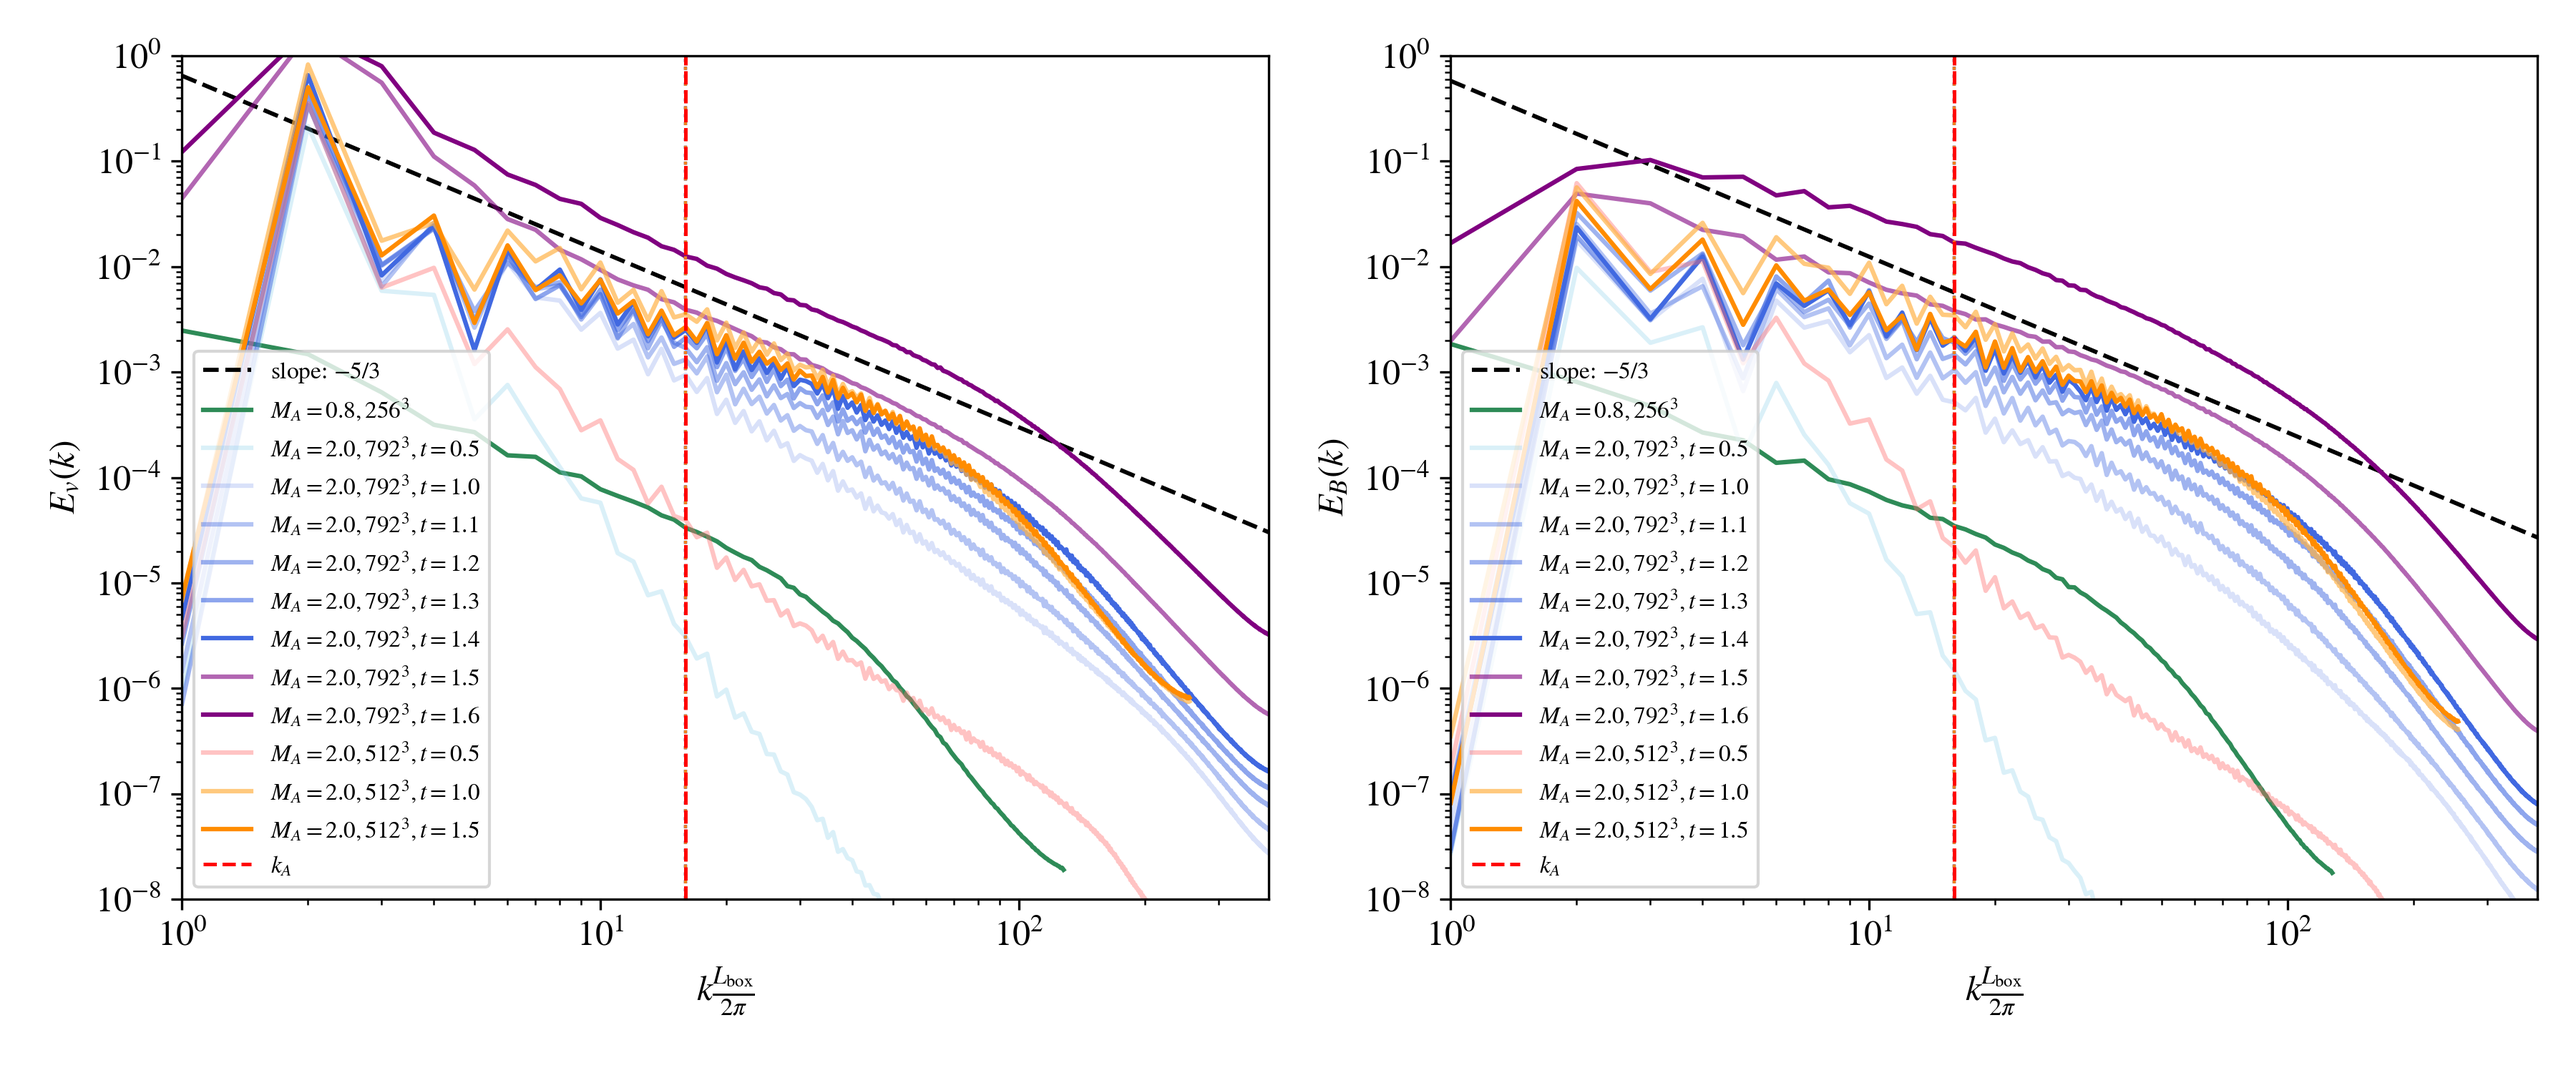
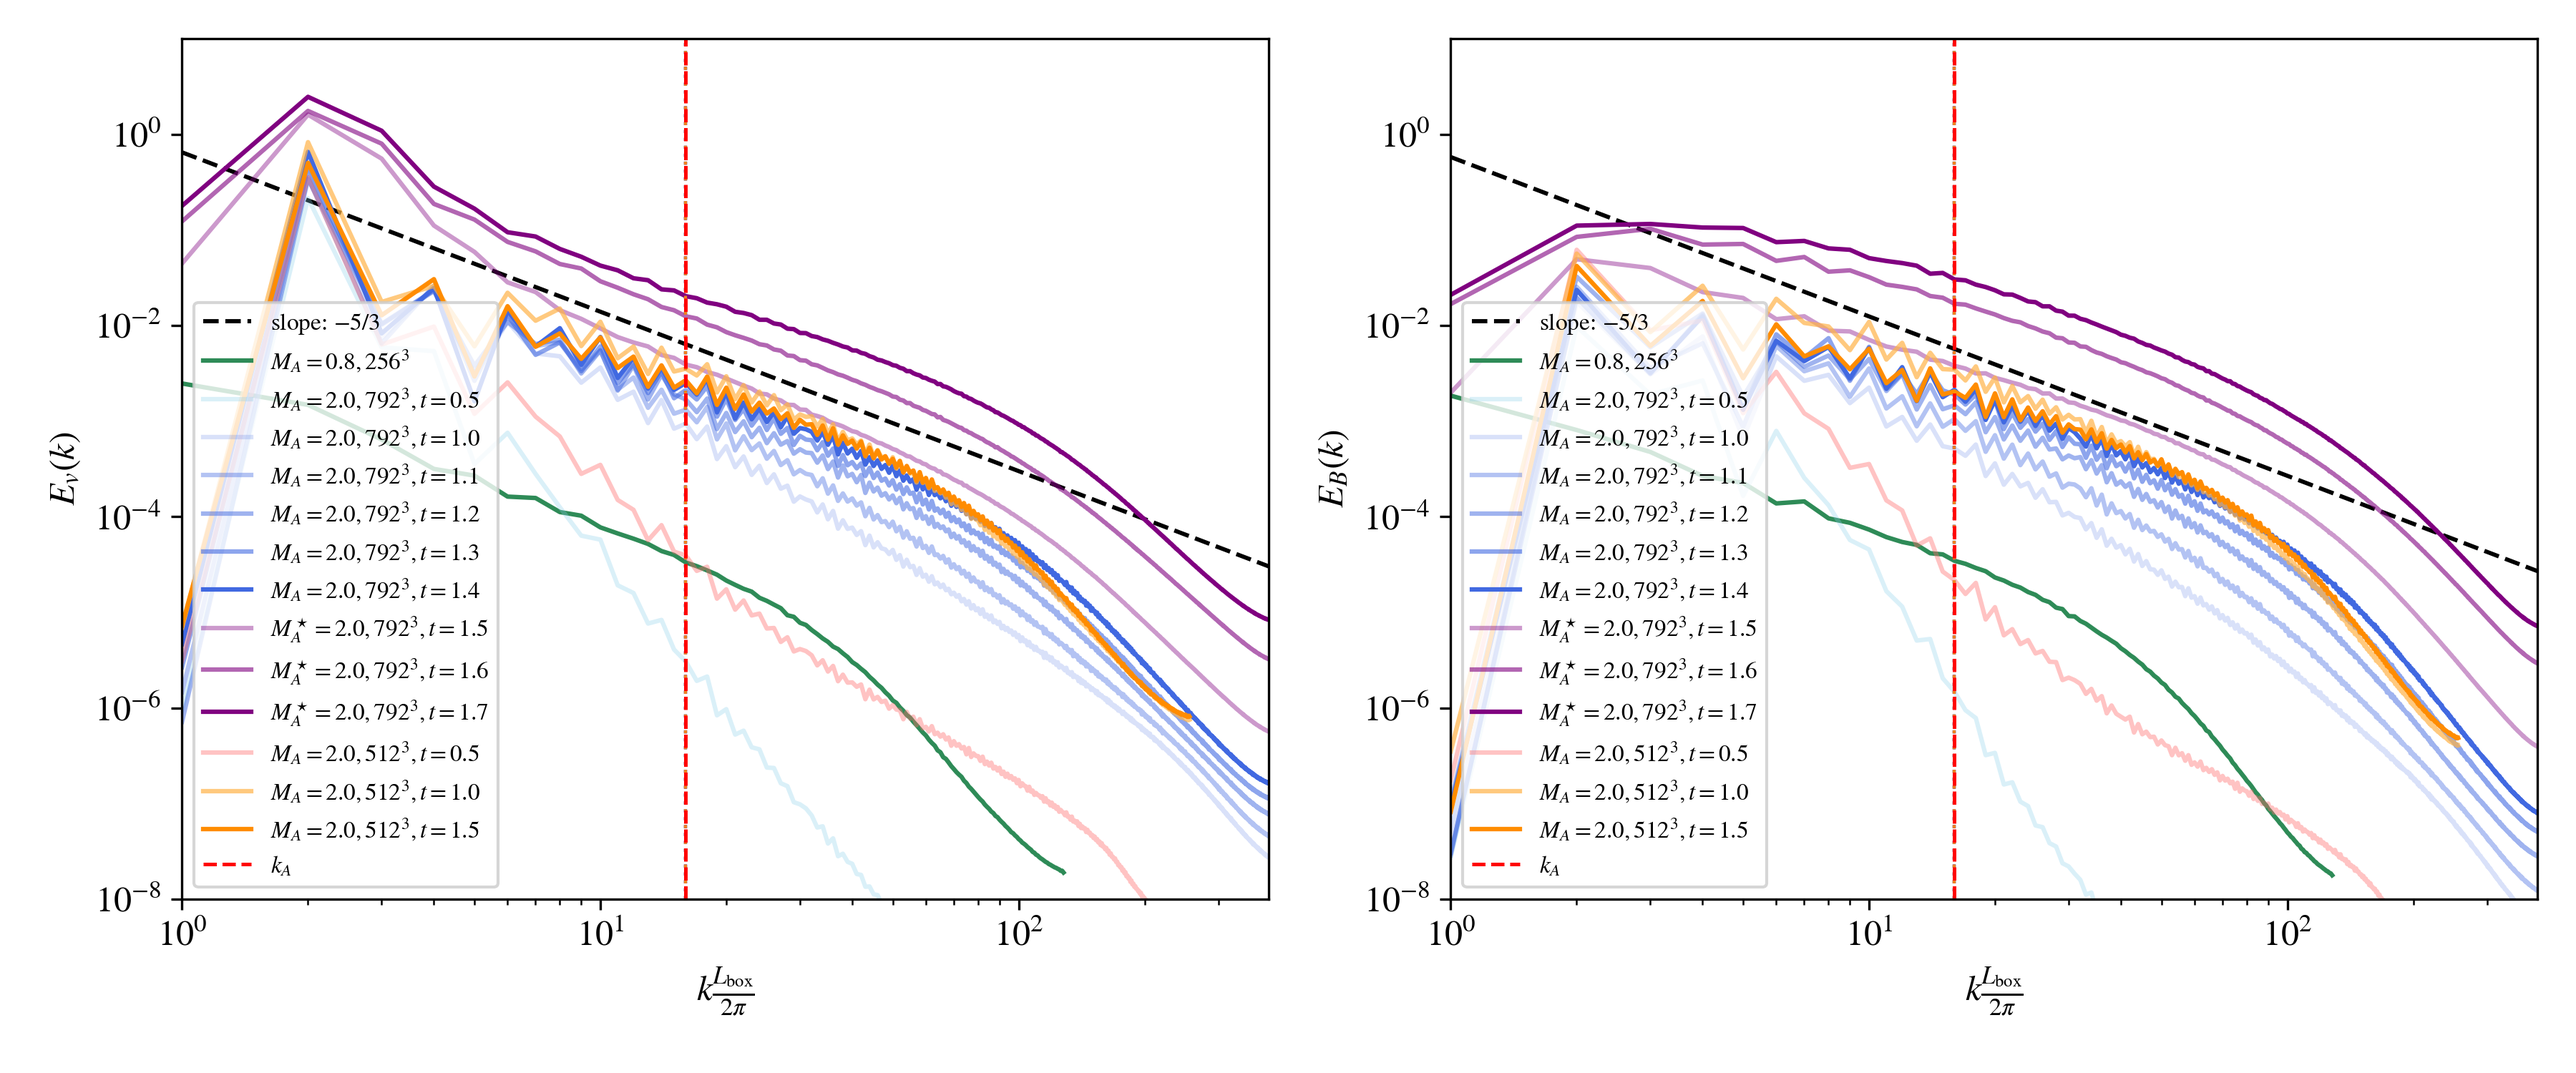
Added Ma=2, t=1.7 simulation

diff --git a/vel_b_spectrum/boxes_comparison/recreate_figure.py b/vel_b_spectrum/boxes_comparison/recreate_figure.py
@@ -15,8 +15,9 @@ def replot(npz="M_A=2.0, 792^3, t=1.0.npz", meta="M_A=2.0, 792^3, t=1.0.json", o
         ("M_A=2.0, 792^3, t=1.2.npz", "M_A=2.0, 792^3, t=1.2.json", r"$M_A=2.0, 792^3, t=1.2$", "#4169E1", 0.5),  # Royal Blue
         ("M_A=2.0, 792^3, t=1.3.npz", "M_A=2.0, 792^3, t=1.3.json", r"$M_A=2.0, 792^3, t=1.3$", "#4169E1", 0.6),  # Royal Blue
         ("M_A=2.0, 792^3, t=1.4.npz", "M_A=2.0, 792^3, t=1.4.json", r"$M_A=2.0, 792^3, t=1.4$", "#4169E1", 1.0),  # Royal Blue
-        ("M_A=2.0, 792^3, t=1.5.npz", "M_A=2.0, 792^3, t=1.5.json", r"$M_A=2.0, 792^3, t=1.5$", "purple", 0.6),  # Royal Blue
-        ("M_A=2.0, 792^3, t=1.6.npz", "M_A=2.0, 792^3, t=1.6.json", r"$M_A=2.0, 792^3, t=1.6$", "purple", 1.0),  # Royal Blue
+        ("M_A=2.0, 792^3, t=1.5.npz", "M_A=2.0, 792^3, t=1.5.json", r"$M_A^\star=2.0, 792^3, t=1.5$", "purple", 0.4),  # Royal Blue
+        ("M_A=2.0, 792^3, t=1.6.npz", "M_A=2.0, 792^3, t=1.6.json", r"$M_A^\star=2.0, 792^3, t=1.6$", "purple", 0.6),  # Royal Blue
+        ("M_A=2.0, 792^3, t=1.7.npz", "M_A=2.0, 792^3, t=1.7.json", r"$M_A^\star=2.0, 792^3, t=1.7$", "purple", 1.0),  # Royal Blue
         ("M_A=2.0, 512^3, t=0.5.npz", "M_A=2.0, 512^3, t=0.5.json", r"$M_A=2.0, 512^3, t=0.5$", "#FF6B6B", 0.4),  # Coral Red
         ("M_A=2.0, 512^3, t=1.0.npz", "M_A=2.0, 512^3, t=1.0.json", r"$M_A=2.0, 512^3, t=1.0$", "#FFB347", 0.7),  # Peach
         ("M_A=2.0, 512^3, t=1.5.npz", "M_A=2.0, 512^3, t=1.5.json", r"$M_A=2.0, 512^3, t=1.5$", "#FF8C00", 1.0)   # Dark Orange
@@ -85,7 +86,7 @@ def replot(npz="M_A=2.0, 792^3, t=1.0.npz", meta="M_A=2.0, 792^3, t=1.0.json", o
     for ax, lab in [(ax1, r"$E_v(k)$"), (ax2, r"$E_B(k)$")]:
         ax.set_xlabel(r"$k\frac{L_{\rm box}}{2\pi}$")
         ax.set_ylabel(lab)
-        ax.set_ylim(1e-8,1)
+        ax.set_ylim(1e-8,10)
         ax.set_xlim(1, 792/2)
         ax.legend(loc="lower left", fontsize=8)
     
